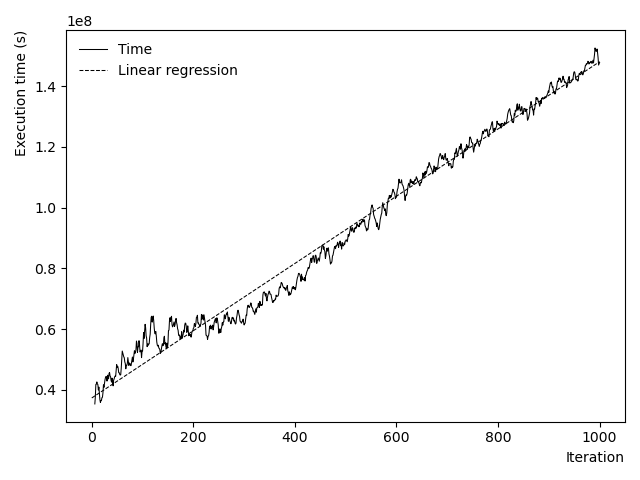
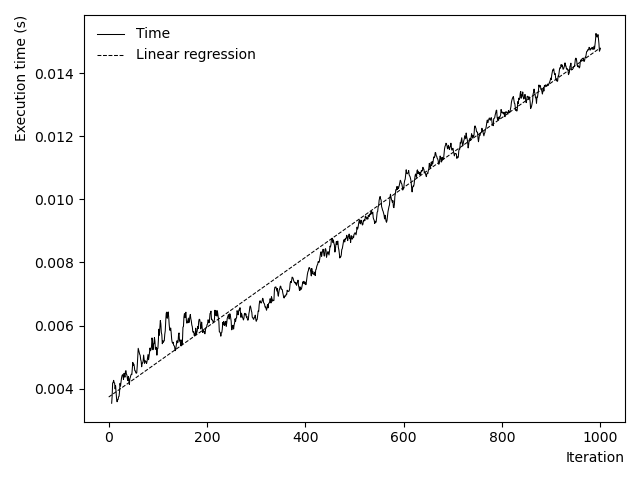
Fixed data scale

diff --git a/script/execution_plot.py b/script/execution_plot.py
@@ -6,9 +6,12 @@ import pandas as pd
 from sklearn import linear_model
 
 LOG_FILES = [abspath(f"{dirname(__file__)}/../logs/execution_mut_logs.json")]
-LOG_FILES = [abspath(f"{dirname(__file__)}/../logs/execution_logs_{i}.json") for i in [1, 2, 3, 4, 5]]
-LOG_FILES = [abspath(f"{dirname(__file__)}/../logs/new_execution_logs_{i}.json") for i in [1, 2, 3, 4, 5]]
-LOG_FILES = [abspath(f"{dirname(__file__)}/../logs/new_execution_logs_extra_rule_{i}.json") for i in [1, 2, 3, 4, 5]]
+LOG_FILES = [abspath(f"{dirname(__file__)}/../logs/execution_logs_{i}.json")
+             for i in [1, 2, 3, 4, 5]]
+LOG_FILES = [abspath(f"{dirname(__file__)}/../logs/new_execution_logs_{i}.json")
+             for i in [1, 2, 3, 4, 5]]
+LOG_FILES = [abspath(f"{dirname(__file__)}/../logs/new_execution_logs_extra_rule_{i}.json")
+             for i in [1, 2, 3, 4, 5]]
 
 
 def mean(it) -> float:
@@ -22,17 +25,23 @@ if __name__ == '__main__':
     logs = dict()
     for log_file in LOG_FILES:
         with open(log_file) as f:
-            logs[log_file] = {k: v for k, v in json.load(f).items() if "index" in k}
+            logs[log_file] = {k: v for k, v in json.load(
+                f).items() if "index" in k}
 
-    indexes = {int(k) for log_file in LOG_FILES for k in logs[log_file]["duration_index"].keys() if int(k) <= 1000}
+    indexes = {int(k) for log_file in LOG_FILES for k in logs[log_file]["duration_index"].keys(
+    ) if int(k) <= 1000}
     values = {
         i: mean(list(
-            filter(lambda v: v is not None, [logs[log_file]["duration_index"].get(str(i)) for log_file in LOG_FILES])))
+            map(lambda w: float(w)/10e9,
+                filter(lambda v: v is not None, [logs[log_file]["duration_index"].get(str(i)) for log_file in
+                                                 LOG_FILES]))))
         for i in indexes}
 
-    plot_data = pd.DataFrame.from_dict(values, orient="index", columns=["time"])
+    plot_data = pd.DataFrame.from_dict(
+        values, orient="index", columns=["time"])
     l_reg = linear_model.LinearRegression()
-    l_reg.fit(plot_data.index.values.reshape(-1, 1), plot_data["time"].values.reshape(-1, 1))
+    l_reg.fit(plot_data.index.values.reshape(-1, 1),
+              plot_data["time"].values.reshape(-1, 1))
     plot_data["r_mean"] = plot_data["time"].rolling(7).mean()
     plot_data["l_reg"] = l_reg.predict(plot_data.index.values.reshape(-1, 1))
 
